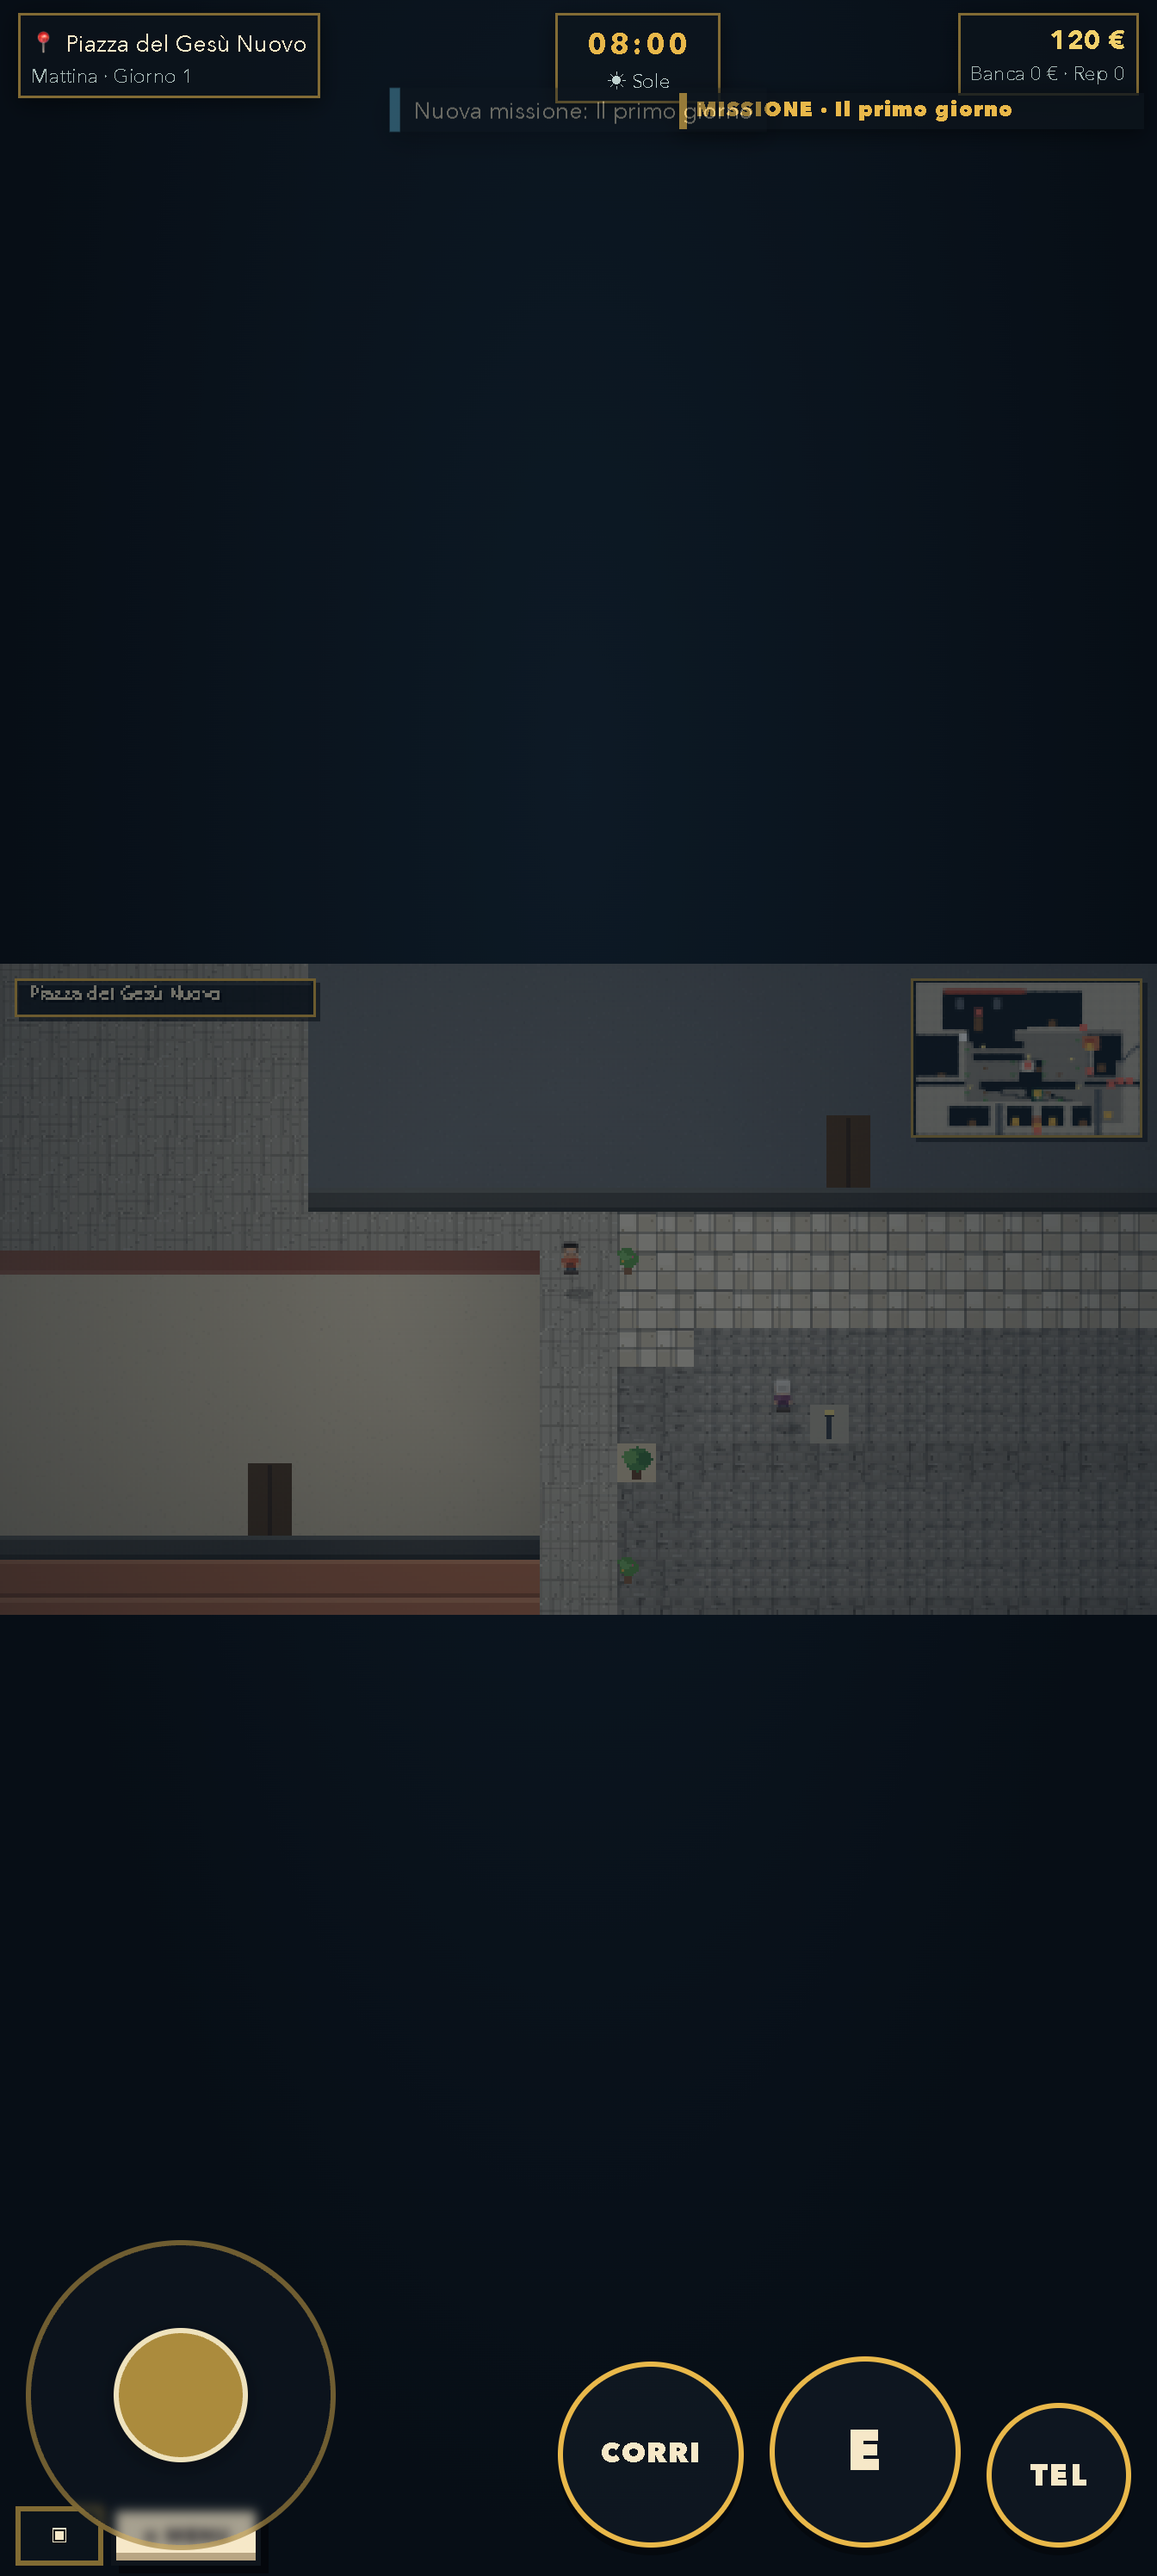
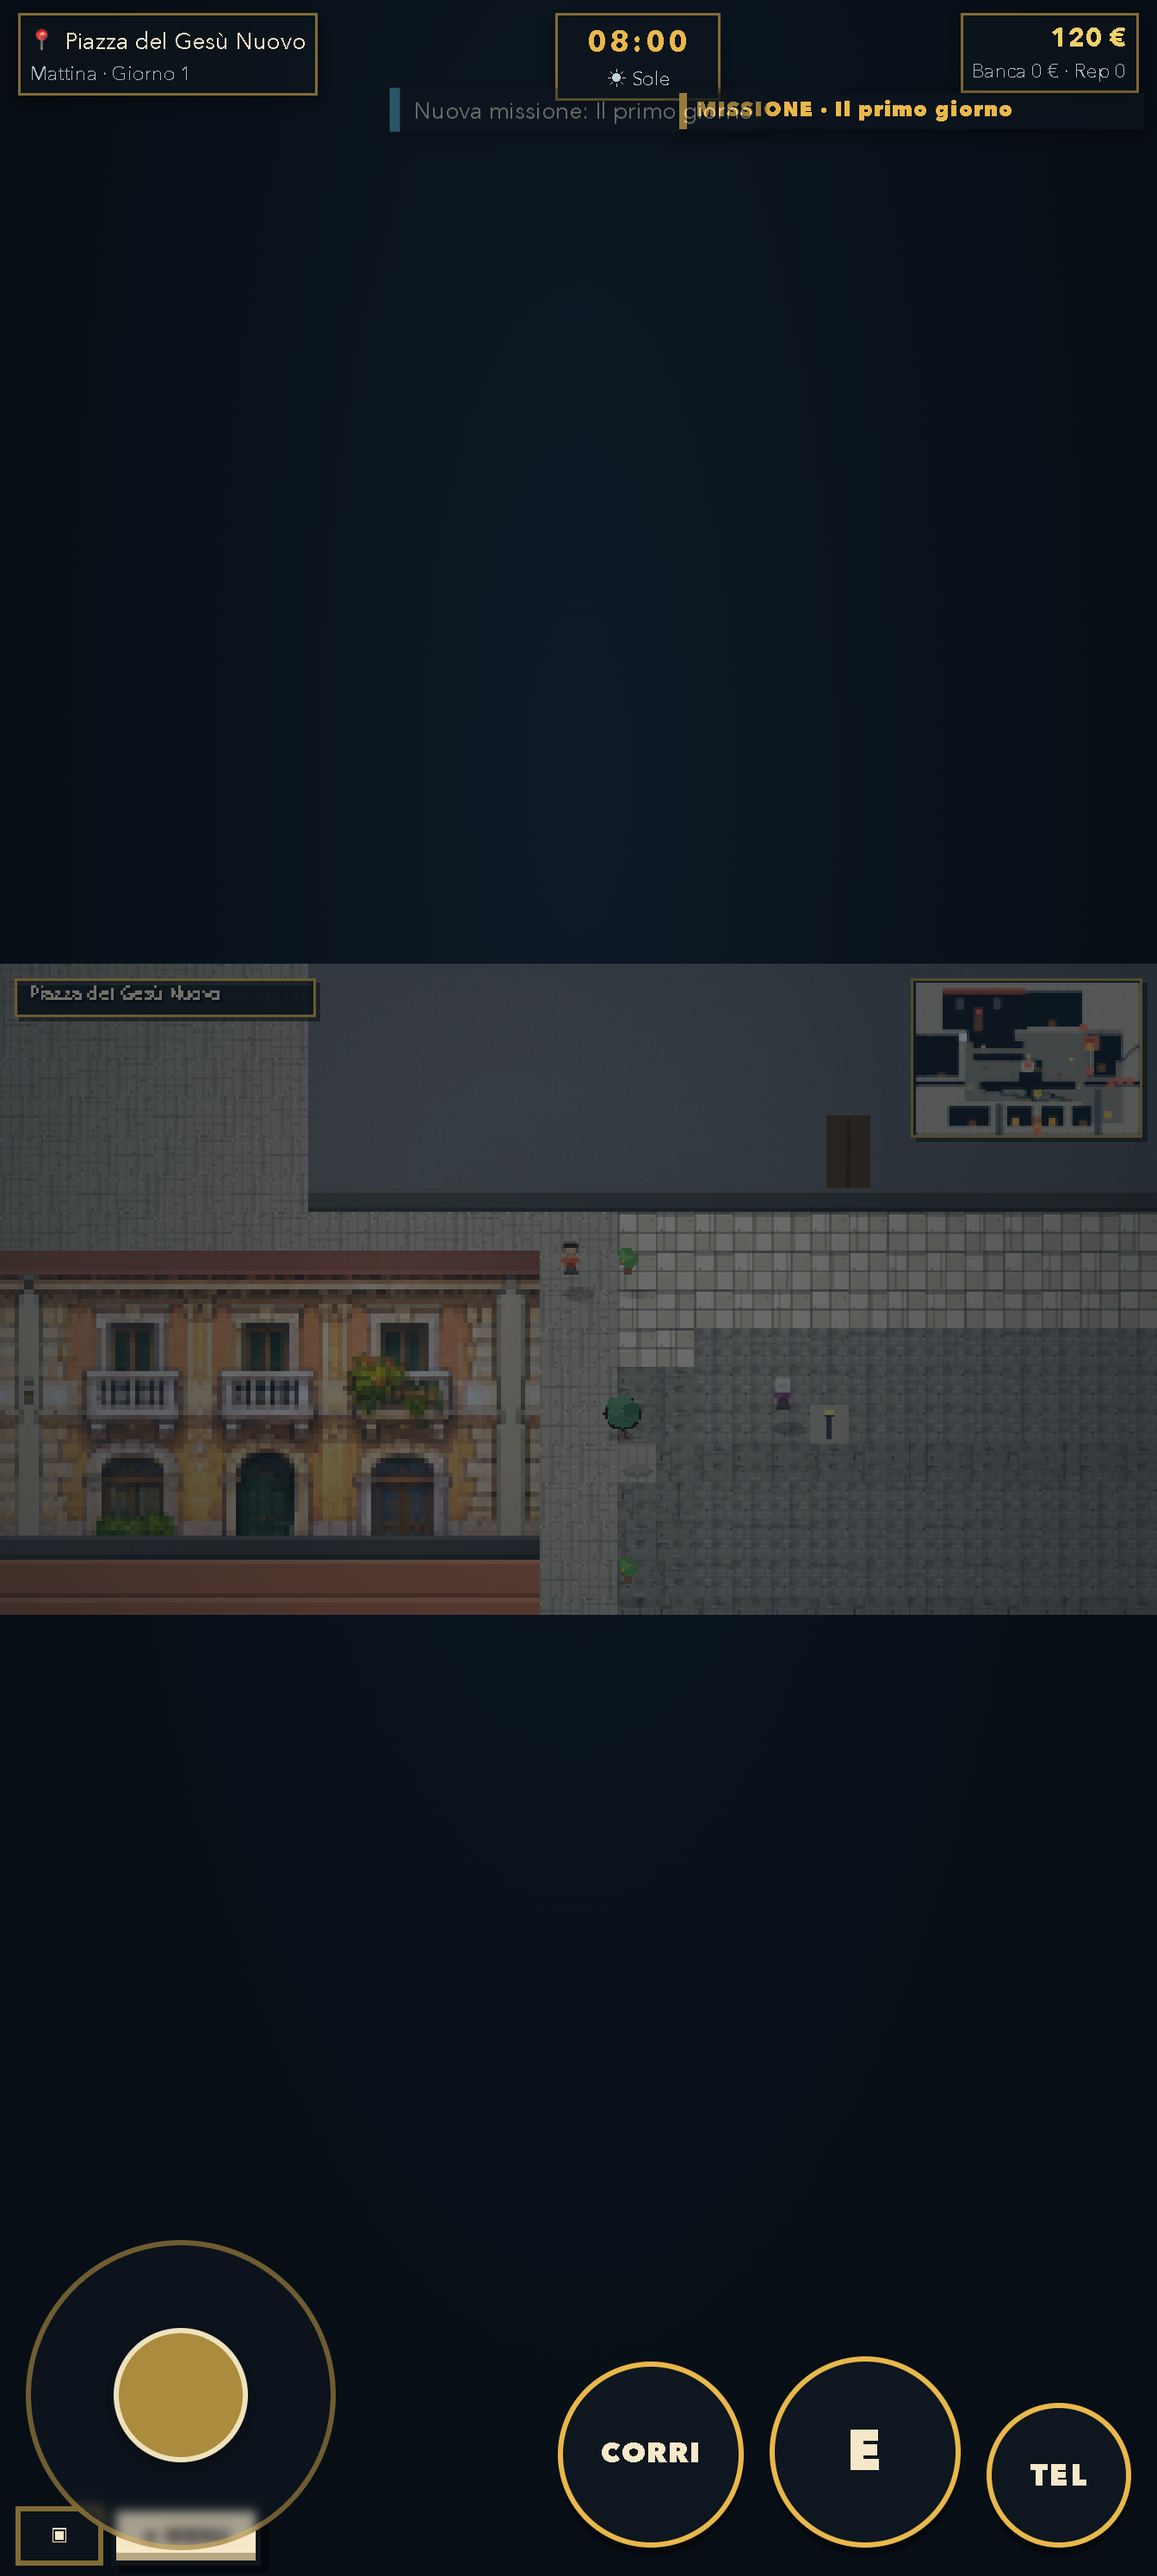
Documenta pubblicazione revisione visiva: f08ed04, run 45621222465, bundle index-Cuk6AnYj.js

diff --git a/qa/campania-open-code-1/README.md b/qa/campania-open-code-1/README.md
@@ -152,7 +152,9 @@ Checkpoint di ingresso `checkpoint/pre-visual-review` / `backup/pre-visual-revie
 - «Casa nonna: personaggio coperto dal tappeto» — il tile `R` è pavimento disegnato prima delle entità: non può coprire uno sprite; `visual-explore` conferma 0 occlusioni. Le panche da 48 px (6 m) sono arredo realistico a fronte di un adulto di 14 px.
 - La grotta non era trasparenza rotta né overlay UI: il pattern di rovera era presente sotto il buio.
 
-**Gate della revisione visiva** — regressione **PASS** (incluso il nuovo test footprint veicoli), texture audit **50/50 PNG e 21/21 facciate**, render audit **0 errori**, visual-explore **26 mappe × 2 dispositivi, 0 errori/occlusioni/profondità**, build Vite **OK**, mobile-start locale e pubblico **OK**, `git diff --check` **OK**.
+**Gate della revisione visiva** — regressione **37/37 PASS** (incluso il nuovo test footprint veicoli), texture audit **50/50 PNG e 21/21 facciate**, render audit **0 errori**, visual-explore **26 mappe × 2 dispositivi, 0 errori/occlusioni/profondità**, build Vite locale e CI-like **OK**, mobile-start locale e pubblico **OK**, `git diff --check` **OK**.
+
+**Pubblicazione** — commit `f08ed04` su `main`, workflow `45621222465` `success` (build `139229576528`, deploy `139229978970`, step `Mobile start smoke (touch)` nella CI `success`), bundle remoto `index-Cuk6AnYj.js`, URL invariato `https://walkingbad10.github.io/campania-life/`. Marker beta, chiave save e nuove firme `softShadow`/`tufo`/`Pext` verificati nel bundle remoto; smoke test pubblico ripetuto con esito OK.
 
 ## Esito del confronto
 Il testo di Wikipedia conferma l'impianto usato dalla graybox: obelisco al centro dello spiazzale, palazzi nobiliari a ovest (Pandola / Pignatelli di Monteleone), Gesù Nuovo e Santa Chiara sui lati opposti, Palazzo delle Congregazioni presso il Gesù. La facciata del Gesù è riconoscibile per il bugnato a punta di diamante in piperno; la guglia è in marmo bianco e bardiglio.
@@ -163,7 +165,7 @@ Il confronto geografico è stato fatto con OSM/satellite, misure documentate e a
 - Save key `campania_life_save_v1`, forma `{ v:1, t, data }`, nessun nuovo campo top-level.
 - Marker beta invariato: `BETA PUBBLICA · Richiede verifica manuale su MacBook e smartphone`.
 - URL pubblico: `https://walkingbad10.github.io/campania-life/` (invariato).
-- Deploy finale verificato: run `45616242811` `success` (build `139212256590` e deploy `139212645019` entrambi `success`), commit `b7f2716`, bundle remoto `index-CWJT4Ahe.js`. Sul sito pubblico `npm run test:mobile-start` entra in `napoli` a `240,272`, verifica WASD quattro direzioni con corsa e idle e joystick quattro direzioni, muove il giocatore a `229,272`, salva in `campania_life_save_v1` e ripristina con «CONTINUA». Marker beta, chiave save, `blockedBox`, `doorClosed` e `awningSprite` presenti nel bundle remoto. Deploy precedente: `45606128039`, commit `c9fddbd`, bundle `index-BK9wvC9o.js`.
+- Deploy finale verificato: run `45621222465` `success` (build `139229576528` e deploy `139229978970`, step `Mobile start smoke (touch)` `success`), commit `f08ed04`, bundle remoto `index-Cuk6AnYj.js`. Sul sito pubblico `npm run test:mobile-start` entra in `napoli` a `240,272`, verifica WASD quattro direzioni con corsa e idle e joystick quattro direzioni, muove il giocatore a `229,272`, salva in `campania_life_save_v1` e ripristina con «CONTINUA». Marker beta, chiave save, `blockedBox`, `doorClosed`, `softShadow`, `tufo` e `Pext` presenti nel bundle remoto. Deploy precedenti: `45616242811` / `index-CWJT4Ahe.js` (`b7f2716`), `45606128039` / `index-BK9wvC9o.js` (`c9fddbd`).
 - Spawn Napoli `240,272`; guglia base `34,25,4x3` e POI `36,26`; edicola `38,34`; `palazzo_e` altezza `5*T`; corridoio metro `56,21..28` percorribile.
 - `U` lampione e `E` panchina solidi; `G`, `Y`, `D`, `d`, `e` attraversabili.
 - Portali, POI, missioni, negozi, interazioni e formato salvataggi invariati.

diff --git a/ROADMAP.md b/ROADMAP.md
@@ -1,8 +1,8 @@
 # CAMPANIA LIFE / CAMPANIA OPEN CODE — ROADMAP di ripresa
 
-**Aggiornato:** 25 novembre 2026 — revisione visiva con modello multimodale completata, in attesa di pubblicazione sullo stesso URL.
+**Aggiornato:** 25 novembre 2026 — revisione visiva con modello multimodale completata e pubblicata sullo stesso URL.
 **Repo:** `CampaniaLife` · branch locale `main` · remote `origin/main`.
-**Stato pubblico corrente:** revisione qualitativa `b7f2716` (documentazione `2243cbc`), bundle remoto `index-CWJT4Ahe.js`, workflow `45616242811` `success` (build `139212256590`, deploy `139212645019`). Smoke test pubblico **OK**: `NUOVA PARTITA` → `napoli` `240,272` → WASD quattro direzioni + corsa + idle → joystick quattro direzioni → movimento `229,272` → save `campania_life_save_v1` → `CONTINUA` `229,272`. Marker beta, chiave save, `blockedBox`, `doorClosed` e `awningSprite` presenti nel bundle remoto. Pubblicazione precedente: `c9fddbd`, bundle `index-BK9wvC9o.js`, workflow `45606128039`.
+**Stato pubblico corrente:** revisione visiva `f08ed04`, bundle remoto `index-Cuk6AnYj.js`, workflow `45621222465` `success` (build `139229576528`, deploy `139229978970`, step `Mobile start smoke (touch)` `success`). Smoke test pubblico **OK**: `NUOVA PARTITA` → `napoli` `240,272` → WASD quattro direzioni + corsa + idle → joystick quattro direzioni → movimento `229,272` → save `campania_life_save_v1` → `CONTINUA` `229,272`. Marker beta, chiave save, `blockedBox`, `doorClosed`, `softShadow`, `tufo` e `Pext` presenti nel bundle remoto. Pubblicazione precedente: `b7f2716` / `2243cbc`, bundle `index-CWJT4Ahe.js`, workflow `45616242811`.
 **Checkpoint della revisione visiva:** `checkpoint/pre-visual-review` / `backup/pre-visual-review` su `2243cbc`, con bundle `../backup/pre-visual-review/CampaniaLife-2243cbc.bundle`, mai ripristinato.
 **Checkpoint della revisione qualitativa:** `checkpoint/pre-quality-review` / `backup/pre-quality-review` su `4cd0e35`, con bundle `../backup/pre-quality-review/CampaniaLife-4cd0e35.bundle`.
 **Nota:** la workflow `45513882269` era stata annullata deliberatamente prima della revisione visiva; la pubblicazione finale precedente è avvenuta sullo stesso URL con la workflow `45606128039`.
@@ -98,9 +98,10 @@
 2. [x] Committato e pushato `main` con la revisione qualitativa (`b7f2716`), senza attendere ulteriore conferma: autorizzazione esplicita dell'utente dopo il superamento dei controlli.
 3. [x] GitHub Actions `45616242811` completata: `build` `139212256590` e `deploy` `139212645019` entrambi `success`.
 4. [x] `npm run test:mobile-start` ripetuto sul sito pubblico: NUOVA PARTITA, WASD, joystick touch, save `campania_life_save_v1` e CONTINUA tutti OK.
-5. [x] Run ID finali e bundle remoto aggiornati in questo file e in `qa/campania-open-code-1/README.md`.
-6. Non ripristinare lo step CI `Install Playwright Chromium`: `mobile-start.mjs` usa il fallback al Chrome di sistema.
-7. Non ripristinare `checkpoint/pre-structural-review` (`51a22c0`) né `checkpoint/pre-quality-review` (`4cd0e35`): le correzioni successive sono la fonte autorevole.
+5. [x] Revisione visiva pubblicata: commit `f08ed04`, GitHub Actions `45621222465` `success` (build `139229576528`, deploy `139229978970`, smoke touch nella CI `success`), bundle remoto `index-Cuk6AnYj.js`, smoke pubblico ripetuto OK, marker/chiave save verificati nel bundle.
+6. [x] Run ID finali e bundle remoto aggiornati in questo file e in `qa/campania-open-code-1/README.md`.
+7. Non ripristinare lo step CI `Install Playwright Chromium`: `mobile-start.mjs` usa il fallback al Chrome di sistema.
+8. Non ripristinare `checkpoint/pre-structural-review` (`51a22c0`) né `checkpoint/pre-quality-review` (`4cd0e35`) né `checkpoint/pre-visual-review` (`2243cbc`): le correzioni successive sono la fonte autorevole.
 
 ---
 
